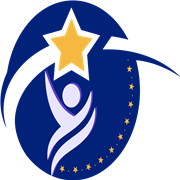
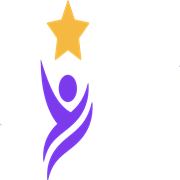
feat: final approved StarMitra brand assets (5-file authoritative set)
Integrated the FINAL PO-supplied assets from Images/ into both apps:

frontend/public/brand/ + mobile/assets/brand/:
  mobileAppIconDark.png   - compact mark for LIGHT surfaces
  mobileAppIconLight.png  - compact mark for DARK surfaces
  sMLogoMainDark.png      - full lockup for LIGHT surfaces
  sMLogoMainLight.png     - full lockup for DARK surfaces
  favicon.png             - web favicon (+derived ico/32/64/apple-touch)

Web: Logo component now picks artwork by surface (light -> *Dark asset,
dark -> *Light asset). Navy sidebars/login hero/media preview/submission
thumbs use Light variants; white cards/empty states use Dark variants.
index.html -> /brand/favicon.png. Old derived SVG logos + prior PNGs
removed; hero.svg retained as decoration art.

Mobile: app.json icon = mobileAppIconDark, splash + adaptive icon =
mobileAppIconLight on navy; Mark/Lockup components take surface prop;
splash gate + login hero on navy use Light variants. apiBase updated to
current LAN IP (192.168.29.3:9090).

Verified: web vite build clean, mobile tsc clean, backend+vite+metro
all serving; assets return image/png over dev server.

Generated with [Devin](https://devin.ai)

diff --git a/frontend/src/admin/shared/ui.tsx b/frontend/src/admin/shared/ui.tsx
@@ -1,15 +1,18 @@
 import { useEffect, useRef, useState, type ReactNode } from 'react';
 import { ApiProblem } from '../../api/client';
 
-/** Official StarMitra lockup (SMLogo.png) / circular mark (mobileAppLogo.png).
- *  On navy surfaces the lockup sits on a white tile so the artwork is never
- *  recoloured. */
-export function Logo({ variant = 'dark', size = 'normal' }:
-  { variant?: 'dark' | 'mark'; size?: 'small' | 'normal' | 'large' }) {
-  const src = variant === 'mark'
-    ? '/brand/StarMitra-Mark.png'
-    : '/brand/StarMitra-Primary-Logo.png';
-  return <span className={`logo ${size} ${variant}`}>
+/** Official StarMitra brand lockup/mark — variant = the SURFACE it sits on.
+ *  surface 'light' → sMLogoMainDark.png / mobileAppIconDark.png
+ *  surface 'dark'  → sMLogoMainLight.png / mobileAppIconLight.png */
+export function Logo({ surface = 'light', mark = false, size = 'normal' }:
+  { surface?: 'light' | 'dark'; mark?: boolean;
+    size?: 'small' | 'normal' | 'large' }) {
+  const src = mark
+    ? (surface === 'dark' ? '/brand/mobileAppIconLight.png'
+                          : '/brand/mobileAppIconDark.png')
+    : (surface === 'dark' ? '/brand/sMLogoMainLight.png'
+                          : '/brand/sMLogoMainDark.png');
+  return <span className={`logo ${size}`}>
     <img src={src} alt="StarMitra" /></span>;
 }
 
@@ -17,7 +20,7 @@ export function Logo({ variant = 'dark', size = 'normal' }:
 export function EmptyState({ title = 'Nothing to show', detail }: { title?: string; detail?: string }) {
   return (
     <div className="empty-state" role="status">
-      <img src="/brand/StarMitra-Mark.png" alt="" aria-hidden="true" />
+      <img src="/brand/mobileAppIconDark.png" alt="" aria-hidden="true" />
       <div className="t">{title}</div>
       {detail && <div className="d">{detail}</div>}
     </div>

diff --git a/mobile/src/components/ui.tsx b/mobile/src/components/ui.tsx
@@ -6,17 +6,25 @@ import {
 import { C } from '../lib/theme';
 import { ApiError } from '../lib/api';
 
-/* ---------- logo ---------- */
-export function Mark({ size = 40 }: { size?: number }) {
+/* ---------- logo (official assets; surface picks the correct variant) ---------- */
+export function Mark({ size = 40, surface = 'light' }:
+  { size?: number; surface?: 'light' | 'dark' }) {
   return (
-    <Image source={require('../../assets/brand/StarMitra-Mark.png')}
-      style={{ width: size, height: size, borderRadius: size / 2 }}
+    <Image
+      source={surface === 'dark'
+        ? require('../../assets/brand/mobileAppIconLight.png')
+        : require('../../assets/brand/mobileAppIconDark.png')}
+      style={{ width: size, height: size }} resizeMode="contain"
       accessibilityLabel="StarMitra logo" />
   );
 }
-export function Lockup({ width = 180 }: { width?: number }) {
+export function Lockup({ width = 180, surface = 'light' }:
+  { width?: number; surface?: 'light' | 'dark' }) {
   return (
-    <Image source={require('../../assets/brand/StarMitra-Primary-Logo.png')}
+    <Image
+      source={surface === 'dark'
+        ? require('../../assets/brand/sMLogoMainLight.png')
+        : require('../../assets/brand/sMLogoMainDark.png')}
       style={{ width, height: width * 0.78 }} resizeMode="contain"
       accessibilityLabel="StarMitra — Passion to Perform" />
   );

diff --git a/frontend/src/judge/evaluation/EvaluatePage.tsx b/frontend/src/judge/evaluation/EvaluatePage.tsx
@@ -43,7 +43,7 @@ export default function EvaluatePage() {
   if (done) return (
     <div className="panel eval-done" role="status">
       <div className="empty-state">
-        <img src="/brand/StarMitra-Mark.png" alt="" aria-hidden="true" />
+        <img src="/brand/mobileAppIconDark.png" alt="" aria-hidden="true" />
         <div className="t">Evaluation submitted</div>
         <div className="d">Recorded against rubric v{rubric?.versionNo} —
           locked per the evaluation lifecycle.</div>
@@ -72,7 +72,7 @@ export default function EvaluatePage() {
           {/* LEFT — preview + submission details */}
           <div>
             <div className="panel media-preview">
-              <img src="/brand/StarMitra-Mark.png" alt="Submission media placeholder"
+              <img src="/brand/mobileAppIconLight.png" alt="Submission media placeholder"
                    className="preview-art" />
               <p className="derived" style={{ margin: 0 }}>
                 Media preview — attachment delivery is wired through M04;

diff --git a/mobile/src/app/index.tsx b/mobile/src/app/index.tsx
@@ -9,8 +9,8 @@ export default function Index() {
   if (!booted) {
     return (
       <View style={styles.splash}>
-        <Image source={require('../../assets/brand/StarMitra-Mark.png')}
-          style={styles.mark} />
+        <Image source={require('../../assets/brand/mobileAppIconLight.png')}
+          style={styles.mark} resizeMode="contain" />
         <Text style={styles.name}>StarMitra</Text>
         <Text style={styles.tagline}>{TAGLINE}</Text>
         <ActivityIndicator color={C.gold} style={{ marginTop: 24 }} />
@@ -23,7 +23,7 @@ export default function Index() {
 const styles = StyleSheet.create({
   splash: { flex: 1, backgroundColor: C.navy, alignItems: 'center',
     justifyContent: 'center' },
-  mark: { width: 120, height: 120, borderRadius: 60 },
+  mark: { width: 130, height: 130 },
   name: { color: '#fff', fontSize: 30, fontWeight: '800', marginTop: 18 },
   tagline: { color: C.gold, fontSize: 14, letterSpacing: 1.5, marginTop: 6 },
 });

diff --git a/frontend/src/admin/brand.css b/frontend/src/admin/brand.css
@@ -34,7 +34,7 @@ img { max-width: 100%; }
 .logo img { height: 34px; width: auto; display: block; }
 .logo.small img { height: 28px; }
 .logo.large img { height: 72px; }
-.logo.mark img { border-radius: 50%; }
+
 .brand-text { color: #fff; font-weight: 600; font-size: 16px; line-height: 1.2;
   display: flex; flex-direction: column; }
 .brand-text b { color: var(--gold); font-weight: 700; display: inline; }
@@ -208,7 +208,7 @@ textarea:focus-visible, button:focus-visible {
 .media-preview { text-align: center; background: linear-gradient(160deg,
   #0a1230 0%, var(--navy) 55%, var(--violet) 130%); border: 0; }
 .media-preview .preview-art { width: 150px; height: 150px; object-fit: contain;
-  border-radius: 50%; margin-bottom: 12px; }
+  margin-bottom: 12px; }
 .media-preview .derived { color: rgba(255,255,255,.65); }
 .detail-grid { display: grid; grid-template-columns: 130px 1fr; gap: 6px 14px;
   margin: 0; font-size: 13.5px; }

diff --git a/frontend/src/App.tsx b/frontend/src/App.tsx
@@ -78,12 +78,12 @@ function NoPortal() {
     <div className="login-page">
       <div className="login-hero" style={{ flex: 'unset', width: 320 }}>
         <img className="hero-art" src="/brand/hero.svg" alt="" aria-hidden="true" />
-        <div><span className="logo small"><img src="/brand/StarMitra-Mark.png" alt="StarMitra" /></span></div>
+        <div><span className="logo small"><img src="/brand/mobileAppIconLight.png" alt="StarMitra" /></span></div>
       </div>
       <div className="login-panel-wrap">
         <div className="login-panel">
           <div className="empty-state">
-            <img src="/brand/StarMitra-Mark.png" alt="" aria-hidden="true" />
+            <img src="/brand/mobileAppIconDark.png" alt="" aria-hidden="true" />
             <div className="t">No portal access</div>
             <div className="d">
               This account doesn't include Admin or Judge access. The

diff --git a/frontend/src/admin/layout/LoginPage.tsx b/frontend/src/admin/layout/LoginPage.tsx
@@ -38,7 +38,7 @@ export default function LoginPage({ onLogin }: { onLogin: (s: Session) => void }
       <div className="login-hero">
         <img className="hero-art" src="/brand/hero.svg" alt=""
              aria-hidden="true" />
-        <div><Logo variant="mark" size="large" /></div>
+        <div><Logo surface="dark" size="large" /></div>
         <div>
           <h1>Welcome to StarMitra</h1>
           <div className="tagline">Passion to Perform</div>
@@ -54,7 +54,7 @@ export default function LoginPage({ onLogin }: { onLogin: (s: Session) => void }
       </div>
       <div className="login-panel-wrap">
         <div className="login-panel">
-          <Logo variant="dark" size="normal" />
+          <Logo surface="light" size="normal" />
           <h2>Sign in</h2>
           <p className="sub">
             Enter your email — we'll send a one-time code.

diff --git a/frontend/index.html b/frontend/index.html
@@ -5,7 +5,7 @@
     <meta name="viewport" content="width=device-width, initial-scale=1.0" />
     <meta name="description" content="StarMitra — Passion to Perform. Talent discovery, competitions and community." />
     <meta name="theme-color" content="#022179" />
-    <link rel="icon" type="image/png" href="/brand/StarMitra-Favicon.png" />
+    <link rel="icon" type="image/png" href="/brand/favicon.png" />
     <link rel="icon" type="image/png" sizes="32x32" href="/brand/favicon-32.png" />
     <link rel="icon" type="image/png" sizes="64x64" href="/brand/favicon-64.png" />
     <link rel="shortcut icon" href="/brand/favicon.ico" />

diff --git a/frontend/src/judge/submissions/SubmissionsPage.tsx b/frontend/src/judge/submissions/SubmissionsPage.tsx
@@ -14,7 +14,7 @@ export default function SubmissionsPage() {
           {data?.map((s) => (
             <div className="sub-card" key={s.id}>
               <div className="thumb">
-                <img src="/brand/StarMitra-Mark.png" alt="" aria-hidden="true" />
+                <img src="/brand/mobileAppIconLight.png" alt="" aria-hidden="true" />
               </div>
               <div className="meta">
                 <div className="name">Submission {s.id.slice(0, 8)}…</div>

diff --git a/mobile/src/app/login.tsx b/mobile/src/app/login.tsx
@@ -53,7 +53,7 @@ export default function Login() {
       <ScrollView style={styles.page} contentContainerStyle={{ flexGrow: 1 }}
         keyboardShouldPersistTaps="handled">
         <View style={styles.hero}>
-          <Lockup width={190} />
+          <Lockup width={190} surface="dark" />
           <Text style={styles.sub}>Discover. Create. Perform. Connect.</Text>
         </View>
         <View style={styles.card}>

diff --git a/frontend/src/admin/layout/AdminShell.tsx b/frontend/src/admin/layout/AdminShell.tsx
@@ -37,7 +37,7 @@ export default function AdminShell({ session, onLogout }:
     <div className="admin-shell">
       <aside className="admin-side">
         <div className="brand">
-          <Logo variant="mark" size="small" />
+          <Logo surface="dark" mark size="small" />
           <span className="brand-text">Star<b>Mitra</b>
             <span className="portal">Admin Portal</span></span>
         </div>

diff --git a/frontend/src/judge/layout/JudgeShell.tsx b/frontend/src/judge/layout/JudgeShell.tsx
@@ -23,7 +23,7 @@ export default function JudgeShell({ session, onLogout }:
     <div className="admin-shell">
       <aside className="admin-side">
         <div className="brand">
-          <Logo variant="mark" size="small" />
+          <Logo surface="dark" mark size="small" />
           <span className="brand-text">Star<b>Mitra</b>
             <span className="portal">Judge Portal</span></span>
         </div>
